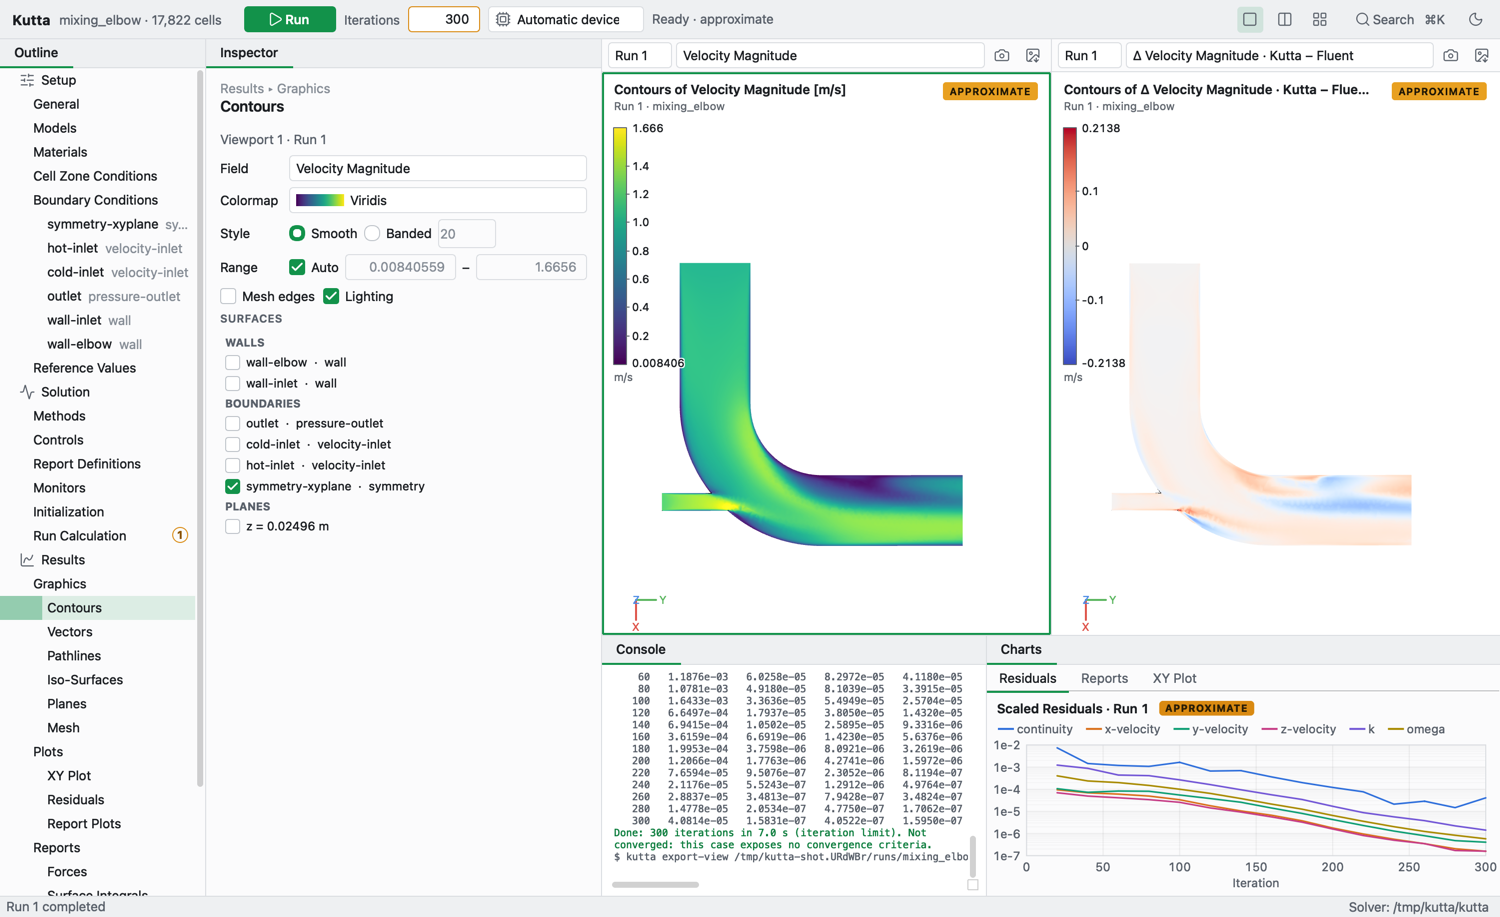
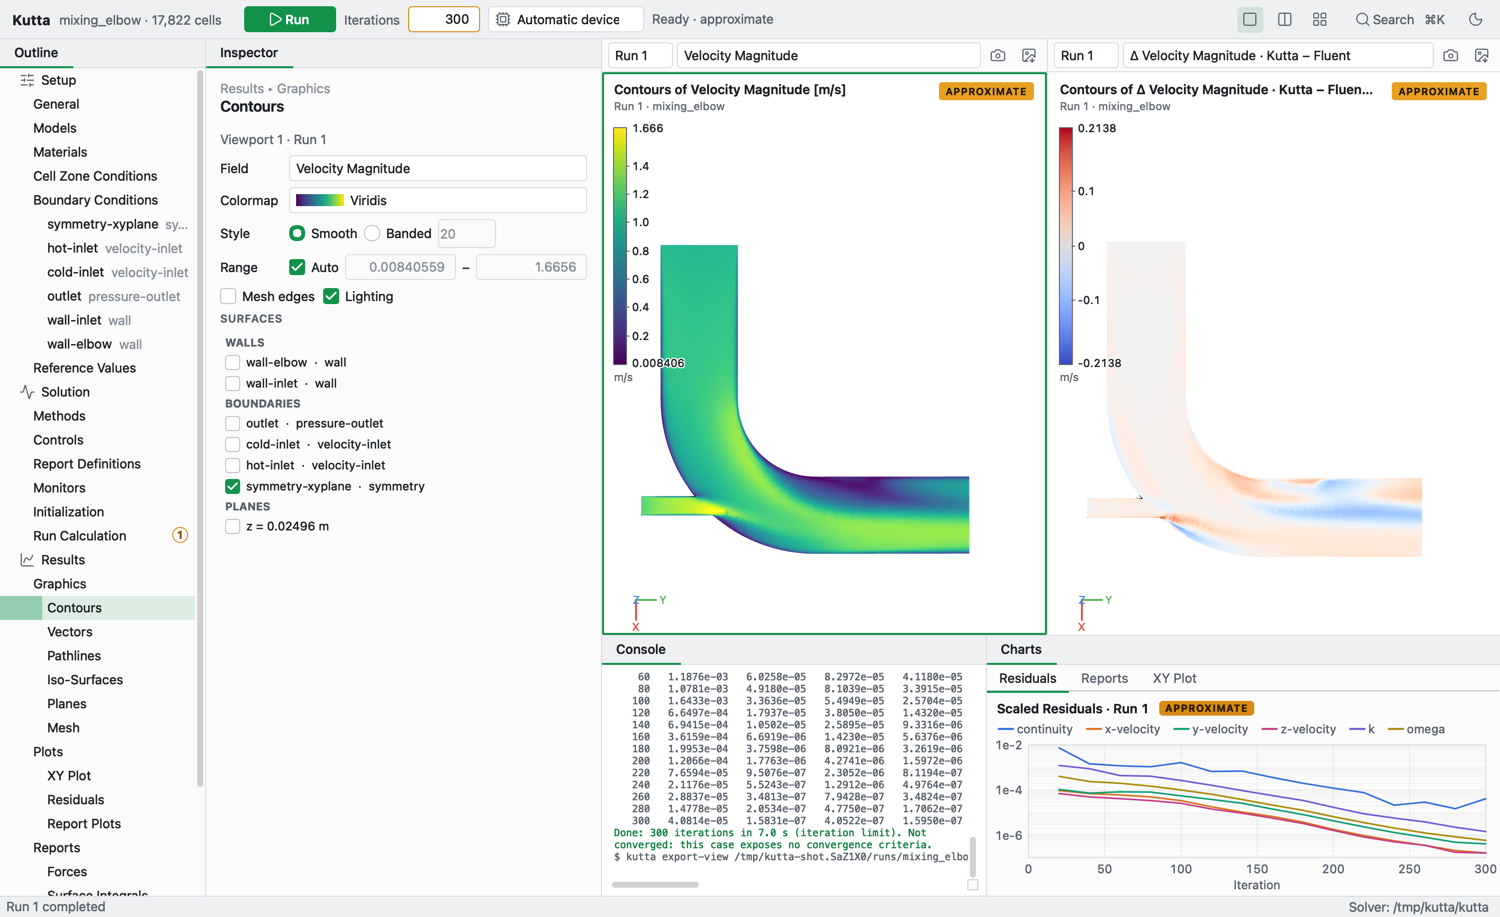
docs(app): requests done, first run and failures, screens regenerated
The app's four protocol requests are in (labels and activity, lenient
fields, incremental post-processing, run controls), plus export-geometry
and zone edges. One finding stays open for the solver lane: the monitor
interval changes the solution, so runs should be compared at equal
intervals until SteadySolver::monitor() stops changing state.

Every screen is recaptured from the real CLI and the elbow, with three new
ones: a case that cannot be opened, the case just opened (mesh and the
getting-started steps), and a failed run (fixture car, disk full).

diff --git a/docs/app-protocol-requests.md b/docs/app-protocol-requests.md
@@ -5,34 +5,46 @@ changes and observations, against `t3/implement-cli-app-protocol` at `57fcdc3`,
 measured on the Ansys mixing elbow (17,822 cells, M4 Pro, Metal). The app
 already works with the protocol as it is; none of these block it.
 
-## Wanted
+## Done (2026-10-30)
 
-1. **Labels for enum values.** Raw settings carry codes such as
-   `boundary/cold-inlet/turbulence-specification = 3`. An `options` entry of
-   `{"value": 3, "label": "Intensity and Hydraulic Diameter"}` (or a parallel
-   `option_labels`) would let the app show Fluent's words instead of numbers.
-   Editable enums (`methods/*-scheme`) are fine as they are.
+All four requests are in the CLI and used by the app; `docs/app-protocol.md`
+has the wire format.
 
-2. **Lenient derived fields in `export-view --post`.** One unavailable name in
-   `fields` fails the whole export (`unknown or unavailable post-processing
-   field`). The app wants a fixed useful set on every surface (Cp, total
-   pressure coefficient, skin friction, vorticity magnitude, x velocity)
-   without first exporting to read `available_fields`. Today it retries without
-   `fields`. Proposal: `"fields_policy": "available"` to skip unavailable ones
-   and list them in the manifest.
+1. **Labels for enum values.** Every inventory entry carries `option_labels`
+   (parallel to `options`) and `value_label`, in Fluent's words: the cold
+   inlet's turbulence specification reads "Intensity and Hydraulic Diameter",
+   not 3. Entries also carry `active`, `depends_on` and `active_when`, so the
+   app hides the fields a method does not use and updates them as the method
+   changes. The turbulence specification method is editable on k-omega inlets
+   and outlets, offering only methods whose values the case saved.
+2. **Lenient derived fields.** `"fields_policy": "available"` skips fields a
+   run cannot provide and lists them in the manifest's `unavailable_fields`.
+   The app asks for it and says in the console which were skipped; against an
+   older CLI it falls back once to the CLI's own selection.
+3. **Incremental post-processing.** Unchanged base surfaces, slices and
+   operations are reused from a per-run cache keyed by their inputs; the
+   manifest reports `post_cache` `{reused, computed, seconds}`. On the elbow,
+   adding a Q-criterion iso-surface to a 35-unit batch takes 0.23 s instead of
+   3.0 s; re-exporting an unchanged batch takes 0.02 s. Warm output is
+   byte-identical to cold.
+4. **Run controls do not mark results MODIFIED.** The `setup` event and
+   `summary.json` list them under `run_controls`; `modified` covers
+   case-changing overrides only. The app treats the iteration count and the
+   monitor interval the same way.
 
-3. **Incremental post-processing.** Every operation republishes the whole
-   `view/`, so adding one iso-surface recomputes every trace, probe and report
-   in the batch. That's fine on the elbow (0.2 s plain; 5.2 s for 30 surface
-   traces, an iso-surface, two probes and a report); it won't be on an
-   18M-cell car. Proposal: reuse unchanged operations' outputs from the
-   previous view, keyed by the operation's JSON.
+Also new: `kutta export-geometry CASE --out DIR [--json]` exports a case's
+boundary without a run (0.16 s on the elbow), and zones carry a KUTL edges
+file of their polygon edges, so the app shows the mesh as soon as a case
+opens, with face edges rather than triangle diagonals.
 
-4. **Run controls should not mark results MODIFIED.** `run/iterations` and
-   `run/monitor-interval` in a setup file set `modified: true` and
-   `MODIFIED RESULT`, but they don't change the case being solved. The app now
-   passes the iteration count with `--iterations`, so it no longer triggers
-   MODIFIED. A changed monitor interval still does.
+## Open
+
+- **The monitor interval changes the solution.** Found while testing request
+  4: two 40-iteration elbow runs at interval 20 and interval 1 differ by up to
+  0.0084 m/s in u (of 1.61) and 3e-4 in k (of 0.030); two runs at interval 20
+  are bit-identical. `SteadySolver::monitor()` changes solver state, so the
+  interval is not yet a pure run control. Until the solver lane fixes it,
+  compare runs at equal intervals; the app does not mark this difference.
 
 ## Observations
 
@@ -45,7 +57,7 @@ already works with the protocol as it is; none of these block it.
   at interval 20 and 9.6 s at interval 1 (+17%). Most of that is likely the
   per-event residual reduction on a small mesh. The cost is worth knowing
   before considering an independent `--progress-every`.
-- **Inventory size.** `inspect --json` returns 9,844 settings (26 editable) in
+- **Inventory size.** `inspect --json` returns 9,844 settings (41 editable) in
   0.6 s. The app groups them Fluent-style, keeps retained raw settings in a
   collapsed folder per group, and builds the searchable tree in about 120 ms.
 - **Approximation text.** The `APPROXIMATE RESULT` warning is about 600
@@ -55,5 +67,5 @@ already works with the protocol as it is; none of these block it.
   would make badges more specific.
 - **Stop.** Closing stdin through QProcess's pipe stops the run after the
   current iteration with outputs written; verified by the app's real-CLI test.
-- **Wording.** The protocol doc still says "sidecar" in the stdin paragraph;
-  the app is a native Qt child-process host.
+- **Wording.** Fixed: the protocol doc describes the app as a native Qt
+  child-process host, not a "sidecar".

diff --git a/docs/app-screens/README.md b/docs/app-screens/README.md
@@ -1,16 +1,20 @@
 # Desktop app screens
 
 Captured with `app/scripts/capture_screens.sh` from the real `kutta` CLI
-(`t3/implement-cli-app-protocol` at 57fcdc3, Metal on an M4 Pro) and the Ansys
-mixing elbow (`validation/fluent_examples/mixing_elbow`, with its `.dat.h5` as
-the Fluent reference where noted). Each run uses the approved warped-face
-gradient approximation, so results are marked APPROXIMATE. Window 1500×940,
-downscaled to 1500 px wide. Every screen exists as `-dark.png` and `-light.png`.
+(`t3/fluent-workbench-ux`, Metal on an M4 Pro) and the Ansys mixing elbow
+(`validation/fluent_examples/mixing_elbow`, with its `.dat.h5` as the Fluent
+reference where noted). Each run uses the approved warped-face gradient
+approximation, so results are marked APPROXIMATE. `car-failed` is the one
+exception: the fixture CLI's synthetic car, made to fail part-way as a full
+disk would. Window 1500×940, downscaled to 1500 px wide. Every screen exists
+as `-dark.png` and `-light.png`.
 
 | Screen | File | What it shows |
 | --- | --- | --- |
-| Welcome | `start` | Open a case, samples, recent cases |
-| Boundary condition | `elbow-setup` | Hand-tuned page with units, modified markers, per-field reset |
+| Welcome | `start` | The getting-started steps, with Open Case on the first |
+| Case not opened | `open-failed` | Why the file could not be opened, in place of a dialog |
+| Case just opened | `elbow-open` | The case's mesh before any run (zones coloured, polygon edges) and the getting-started steps |
+| Boundary condition | `elbow-setup` | Methods in Fluent's words, only the fields the method uses, units, modified markers, per-field reset |
 | Command palette | `palette` | Cmd/Ctrl-K over commands, pages and settings |
 | All case settings | `settings` | 9,844 settings grouped Fluent-style; Kutta's controls first, raw settings folded |
 | Live run | `elbow-live` | Contours updating during the run, residuals at the monitor interval, Stop |
@@ -21,3 +25,4 @@ downscaled to 1500 px wide. Every screen exists as `-dark.png` and `-light.png`.
 | Surface integrals | `elbow-integrals` | Area-weighted pressure on the ports, Kutta and Fluent columns |
 | Run history | `elbow-history` | Two runs with their settings and residuals overlaid |
 | Compare runs | `elbow-compare` | Settings diff, force deltas and the Run 2 − Run 1 field |
+| Failed run | `car-failed` | kutta's error, what to do about it, and the failed run in the top bar (synthetic car, fixture CLI) |

diff --git a/docs/app.md b/docs/app.md
@@ -44,7 +44,23 @@ KUTTA_REAL_CLI=/path/to/kutta ELBOW_CASE=/path/to/mixing_elbow.cas.h5 \
 ```
 
 `car-*` and `bench` use the fixture's synthetic car. Scenarios use the fixture
-unless `--cli` or `KUTTA_CLI` names a solver.
+unless `--cli` or `KUTTA_CLI` names a solver. The fixture can fail a run on
+request (`KUTTA_FIXTURE_FAIL_AT=N`, with `KUTTA_FIXTURE_FAIL_MESSAGE` for an
+error event, or none for a crash); `car-failed` uses it.
+
+## First run and failures
+
+Opening a case shows its boundary mesh at once (`kutta export-geometry`, cached
+per case) and a four-step "Getting started" card on the General page: open,
+approvals, run, results. Each step states what is true and offers the next
+action; Hide removes it for good (View ▸ Show Getting Started restores it).
+
+Nothing fails silently or behind a modal dialog. A case that cannot be opened
+says why on the page, and the open case stays open. A failed, crashed, stopped
+or interrupted run keeps a callout on Run Calculation with kutta's message and
+advice (disk full, device out of memory, permissions, crash) and stays in the
+top bar until the next run. A run whose record or `setup.json` cannot be
+written is refused before kutta starts.
 
 ## Tests
 
@@ -73,7 +89,7 @@ scales the synthetic car):
 Idle: 0 frames rendered and 0.01–0.02% CPU over 5 s with no input. Nothing
 animates continuously; views repaint only on change.
 
-On the real elbow (9,844 settings, 26 editable): `inspect` 0.6 s; the All Case
+On the real elbow (9,844 settings, 41 editable): `inspect` 0.6 s; the All Case
 Settings tree builds in about 120 ms.
 
 ## Packaging

diff --git a/docs/app-protocol-verification.md b/docs/app-protocol-verification.md
@@ -25,7 +25,7 @@ final outputs after stopping, projected force coefficients, direct downforce
 reports, strict override validation, and modified-output provenance. A generated
 inlet/outlet case changes actual integrated inlet mass flow from -1 to -2 kg/s
 when speed is overridden from 1 to 2 m/s. The source case hash stays unchanged.
-The saved mixing-elbow case inventories 9,844 settings, including 26 editable
+The saved mixing-elbow case inventories 9,844 settings, including 41 editable
 controls when seeded. Retained raw settings remain read-only.
 
 The independent Python decoder verifies the view header, byte offsets, scalar
